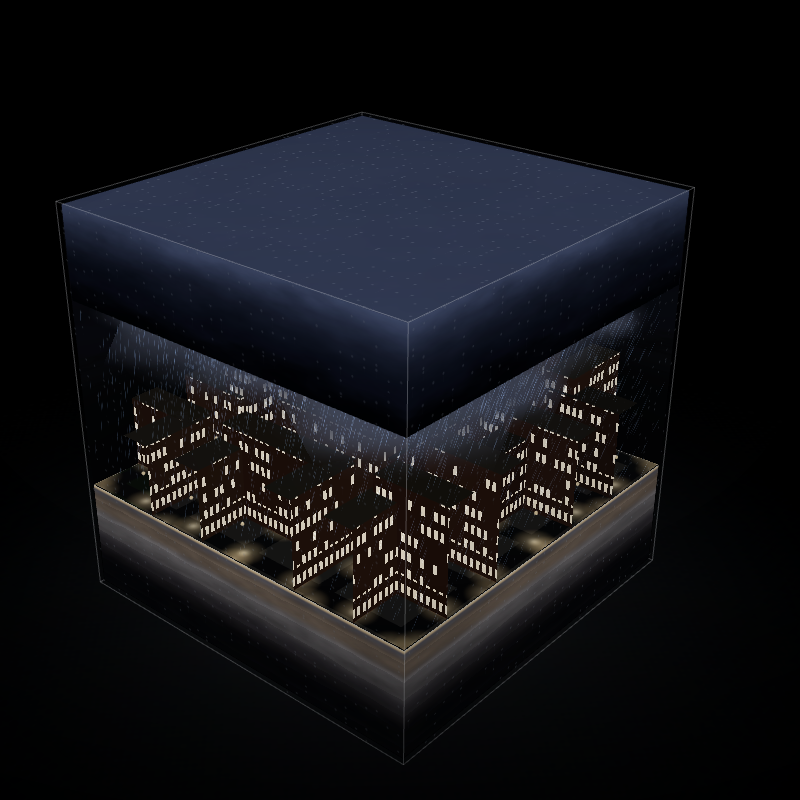
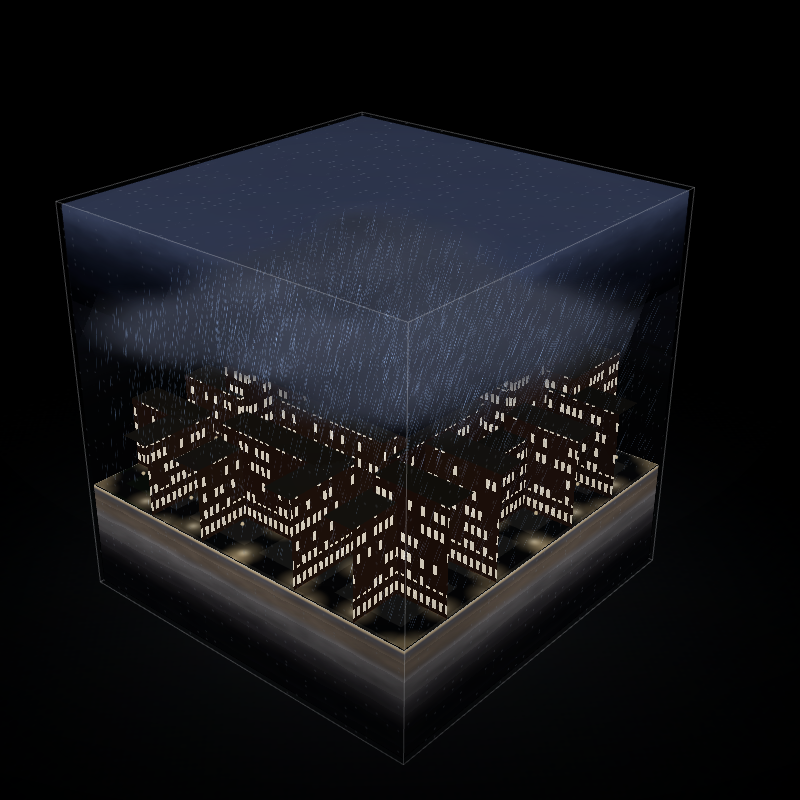
Look down into the block: the cloud lid thins out from above
The lid is opaque, so a steep camera saw only cloud. It now renders
transparent and fades to a thin veil as the camera climbs past ~25 deg
elevation, reaching about 15% opacity overhead, with the hanging puffs
fading in step. From the side it is still a solid ceiling.

The default camera starts steeper, looking down into the block, and a
little further back so the whole cube fits.

Claude-Session: https://claude.ai/code/session_01VXqcgRvqiuKCGUh7gekREc

diff --git a/src/slabs.js b/src/slabs.js
@@ -48,6 +48,7 @@ const SKY_SLAB_FRAG = /* glsl */ `
 
   uniform float uTopY;
   uniform float uBottomY;
+  uniform float uLidAlpha;   // 1 from the side; thins out when seen from above
 
   ${NOISE}
   ${SKY_UNIFORMS}
@@ -104,7 +105,7 @@ const SKY_SLAB_FRAG = /* glsl */ `
     col += vec3(0.85, 0.88, 1.0) * uFlash * 0.9;
 
     col *= uExposure;
-    gl_FragColor = vec4(col, 1.0);
+    gl_FragColor = vec4(col, uLidAlpha);
     #include <tonemapping_fragment>
     #include <colorspace_fragment>
   }
@@ -207,13 +208,14 @@ const GROUND_SLAB_FRAG = /* glsl */ `
 
 /* ------------------------------------------------------------------ */
 
-function slabMesh(fragmentShader, shared, extraUniforms, height, centreY) {
+function slabMesh(fragmentShader, shared, extraUniforms, height, centreY, options = {}) {
   const geo = new THREE.BoxGeometry(CUBE_SIZE * 0.998, height, CUBE_SIZE * 0.998);
   const mat = new THREE.ShaderMaterial({
     vertexShader: SLAB_VERT,
     fragmentShader,
     uniforms: { ...shared, ...extraUniforms },
     side: THREE.FrontSide,
+    ...options,
   });
   const mesh = new THREE.Mesh(geo, mat);
   mesh.position.y = centreY;
@@ -239,16 +241,21 @@ export class AtmosphereSlab {
     this.uniforms = {
       uTopY: { value: this.topY },
       uBottomY: { value: this.bottomY },
+      uLidAlpha: { value: 1 },
     };
 
+    // Transparent so it can thin out when looked at from above; it draws
+    // after the opaque block and before the rain, which then falls through it.
     this.slab = slabMesh(
       SKY_SLAB_FRAG,
       shared,
       this.uniforms,
       this.nominal,
-      (this.topY + this.bottomY) / 2
+      (this.topY + this.bottomY) / 2,
+      { transparent: true, depthWrite: false }
     );
     this.slab.renderOrder = 2;
+    this.viewAlpha = 1;
     this.group.add(this.slab);
 
     this.puffs = this._buildPuffs();
@@ -301,6 +308,7 @@ export class AtmosphereSlab {
       sprite.renderOrder = 3;
       sprite.userData = {
         seed: Math.random(),
+        opacity: 0,
         drop: Math.random() * 0.20,
         baseY: sprite.position.y,
         scale,
@@ -309,6 +317,20 @@ export class AtmosphereSlab {
       this.puffList.push(sprite);
     }
     return group;
+  }
+
+  /**
+   * From the side the lid is a solid ceiling; from above it would hide the
+   * whole block, so it thins to a veil as the camera climbs.
+   * @param {number} elevation camera elevation above the cube centre, radians
+   */
+  setViewElevation(elevation) {
+    const t = THREE.MathUtils.smoothstep(elevation, 0.42, 1.05); // 24° .. 60°
+    this.viewAlpha = 1 - t * 0.86;
+    this.uniforms.uLidAlpha.value = this.viewAlpha;
+    for (const puff of this.puffList) {
+      puff.material.opacity = puff.userData.opacity * (0.3 + 0.7 * this.viewAlpha);
+    }
   }
 
   applyClimate(climate) {
@@ -332,9 +354,10 @@ export class AtmosphereSlab {
 
     for (const puff of this.puffList) {
       const s = puff.userData.seed;
-      puff.material.opacity = Math.max(0, cover * 1.05 - s * 0.30) * (0.5 + climate.cloudDark * 0.5);
+      puff.userData.opacity = Math.max(0, cover * 1.05 - s * 0.30) * (0.5 + climate.cloudDark * 0.5);
+      puff.material.opacity = puff.userData.opacity * (0.3 + 0.7 * this.viewAlpha);
       puff.material.color.copy(shade).multiplyScalar(0.55 + s * 0.5);
-      puff.visible = puff.material.opacity > 0.01;
+      puff.visible = puff.userData.opacity > 0.01;
     }
   }
 

diff --git a/src/main.js b/src/main.js
@@ -128,9 +128,10 @@ renderer.shadowMap.type = THREE.PCFSoftShadowMap;
 const scene = new THREE.Scene();
 
 // A long lens and a high three-quarter view: the cube reads as an object on a
-// table rather than a room you are standing in.
+// table rather than a room you are standing in. Steep enough to look down
+// into the block; the cloud lid thins out at this angle so it does not hide it.
 const camera = new THREE.PerspectiveCamera(29, 1, 0.05, 100);
-camera.position.set(4.05, 3.15, 4.65);
+camera.position.set(3.1, 5.3, 3.55);
 
 const controls = new OrbitControls(camera, renderer.domElement);
 controls.enableDamping = true;
@@ -236,6 +237,11 @@ function frame() {
 
   shared.uTime.value = t;
   controls.update();
+
+  // How far overhead the camera is decides how much lid gets in the way.
+  const dx = camera.position.x - controls.target.x;
+  const dz = camera.position.z - controls.target.z;
+  sky.setViewElevation(Math.atan2(camera.position.y - controls.target.y, Math.hypot(dx, dz)));
 
   const flash = fx.update(dt, t);
   shared.uFlash.value = flash;
